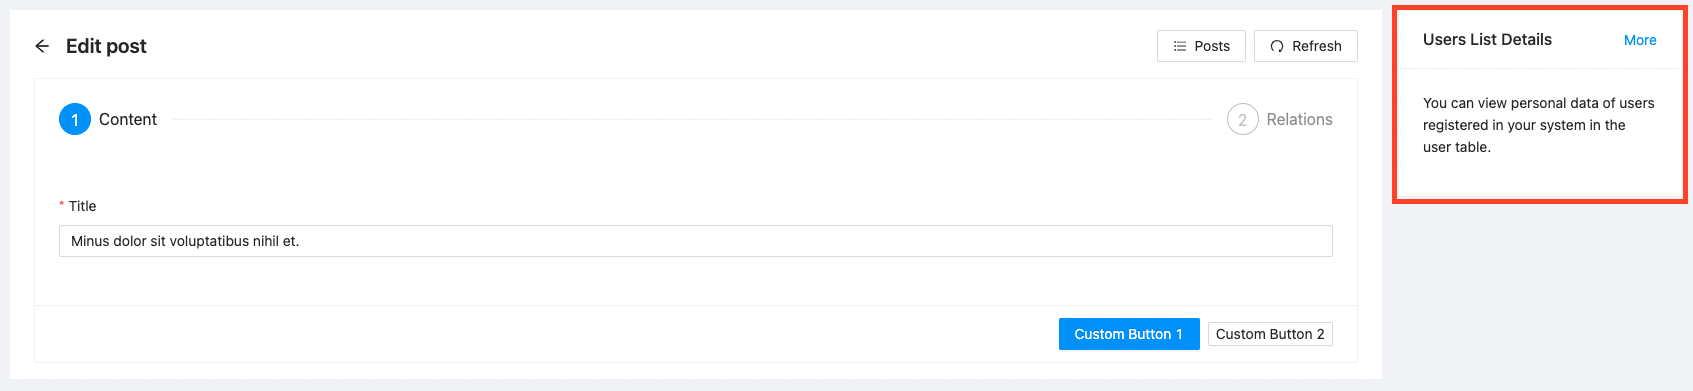
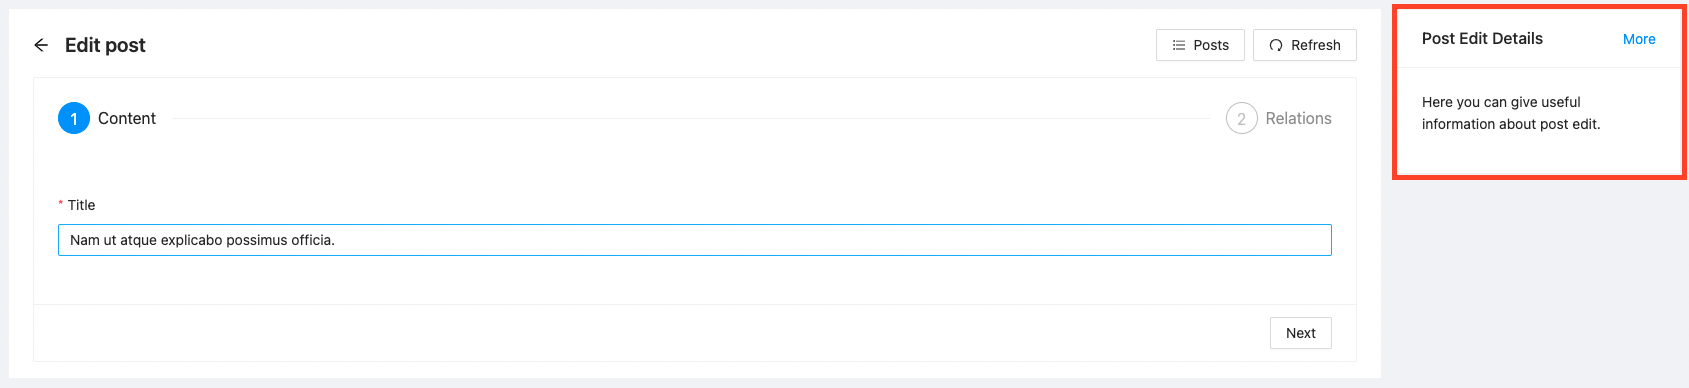
update docs

diff --git a/documentation/docs/guides-and-concepts/basic-views/edit.md b/documentation/docs/guides-and-concepts/basic-views/edit.md
@@ -58,7 +58,7 @@ export const Edit: React.FC = () => {
 
 ### `title`
 
-It allows adding title inside the `<Edit>` component. if you don't pass title props it uses singular resource name by default.
+It allows adding title inside the `<Edit>` component. if you don't pass title props it uses singular resource name by default. For example, for the "posts" resource, it will look like "Edit post".
 
 ```tsx
 import { Edit } from "@pankod/refine";
@@ -77,11 +77,8 @@ import { Edit, Card } from "@pankod/refine";
 
 const Aside: React.FC = () => {
     return (
-        <Card title="Users Edit Details" extra={<a href="#">More</a>}>
-            <p>
-                You can view personal data of users registered in your system in
-                the user table.
-            </p>
+        <Card title="Post Edit Details" extra={<a href="#">More</a>}>
+            <p>Here you can give useful information about post edit.</p>
         </Card>
     );
 };
@@ -99,9 +96,7 @@ export const Edit: React.FC = () => {
 
 ### `actionButtons`
 
-`<Edit>` uses Ant Design `<Card>` components. The `action` prop of `<Card>` component shows `<SaveButton>` and `<DeleteButton>` depending on your usage. If you want to use other things instead of these buttons, you can use `actionButton` property like the below code.
-
-[Refer to `<Card>` documentation for detailed usage. &#8594](https://ant.design/components/card)
+`<Edit>` uses Ant Design [`<Card>`](https://ant.design/components/card) component. The `action` prop of `<Card>` component shows `<SaveButton>` and `<DeleteButton>` depending on your resource definition on `<Resource>` components. If you want to use other things instead of these buttons, you can use `actionButton` property like the below code.
 
 ```tsx
 import { Edit } from "@pankod/refine";
@@ -130,9 +125,7 @@ export const Edit: React.FC = () => {
 
 ### `pageHeaderProps`
 
-`<Edit>` uses Ant Design `<PageHeader>` components. so you can customize with the props of `pageHeaderProps`. By default, the `extra` prop of `<PageHeader>` component shows `<RefreshButton>` and `<ListButton>` depending on your usage.
-
-[Refer to `<PageHeader>` documentation for detailed usage. &#8594](https://ant.design/components/page-header/#API)
+`<Edit>` uses Ant Design [`<PageHeader>`](https://ant.design/components/page-header/#API) components. so you can customize with the props of `pageHeaderProps`. By default, the `extra` prop of `<PageHeader>` component shows `<RefreshButton>` and `<ListButton>` depending on your resource definition on `<Resource>` component.
 
 ```tsx
 import { Edit } from "@pankod/refine";
@@ -159,7 +152,7 @@ export const Edit: React.FC = () => {
 
 ### `recordItemId`
 
-`<Edit>` component reads the `id` information from the route by default. `recordIdItem` is used when it cannot read the `id` information (when used on a special page, inside a modal or drawer).
+`<Edit>` component reads the `id` information from the route by default. `recordIdItem` is used when it cannot reading from the url (when used on a custom page, modal or drawer).
 
 ```tsx
 import { Edit, Modal, useModalForm } from "@pankod/refine";
@@ -238,15 +231,17 @@ export const App: React.FC = () => {
 
 ### Properties
 
-| Property          | Description                                 | Type                                                              | Default                                                            |
-| ----------------- | ------------------------------------------- | ----------------------------------------------------------------- | ------------------------------------------------------------------ |
-| canDelete         | Adds delete button                          | `boolean`                                                         | If `<Resource>` is passed a `canDelete` props, `true` else `false` |
-| deleteButtonProps | Adds props for delete button                | [`DeleteButtonProps`](interfaces.md#delete-button-props)          | `<DeleteButton />`                                                 |
-| saveButtonProps   | Adds props for create button                | `{ disabled: boolean; onClick: () => void; loading: boolean; }`   | `<SaveButton />`                                                   |
-| title             | Adds title                                  | `string`                                                          | Singular of `resource.name`                                        |
-| aside             | Adds component to right side                | `React.FC`                                                        | `undefined`                                                        |
-| actionButtons     | Passes props for `<PageHeader>`             | `React.ReactNode`                                                 | `<SaveButton />` and depending on your usage `<DeleteButton />`    |
-| pageHeaderProps   | Passes props for `<PageHeader>`             | [PageHeaderProps](https://ant.design/components/page-header/#API) | { ghost: false, [title](#title), extra: `<CreateButton />` }       |
-| recordItemId      | Record id for `<RefreshButton />`           | `string`                                                          |                                                                    |
-| mutationMode      | [Determines when mutations are executed](#) | ` "pessimistic` \| `"optimistic` \| `"undoable"`                  | `"pessimistic"`\*                                                  |
-| resource          | [`Resource`](#) for API data interactions   | `string`                                                          | Resource name that it reads from the url.                          |
+| Property          | Description                                 | Type                                                              | Default                                                                            |
+| ----------------- | ------------------------------------------- | ----------------------------------------------------------------- | ---------------------------------------------------------------------------------- |
+| canDelete         | Adds delete button                          | `boolean`                                                         | If `<Resource>` is passed a `canDelete` props, `true` else `false`                 |
+| deleteButtonProps | Adds props for delete button                | [`DeleteButtonProps`](interfaces.md#delete-button-props)          | `<DeleteButton>`                                                                   |
+| saveButtonProps   | Adds props for create button                | `{ disabled: boolean; onClick: () => void; loading: boolean; }`   | `<SaveButton>`                                                                     |
+| title             | Adds title                                  | `string`                                                          | `"Edit"` prefix and singular of `resource.name`                                    |
+| aside             | Adds component to right side                | `React.FC`                                                        | `undefined`                                                                        |
+| actionButtons     | Passes props for `<PageHeader>`             | `React.ReactNode`                                                 | `<SaveButton>` and depending on your `<Resource>` configuration (`canDelete` prop) |
+| pageHeaderProps   | Passes props for `<PageHeader>`             | [PageHeaderProps](https://ant.design/components/page-header/#API) | { ghost: false, [title](#title), extra: `<ListButton>` and `<RefreshButton>` }        |
+| recordItemId      | Record id for `<RefreshButton>`           | `string`                                                          |                                                                                    |
+| mutationMode      | [Determines when mutations are executed](#) | ` "pessimistic` \| `"optimistic` \| `"undoable"`                  | `"pessimistic"`\*                                                                  |
+| resource          | [`Resource`](#) for API data interactions   | `string`                                                          | Resource name that it reads from the url.                                          |
+
+> `*`: These props have default values in `AdminContext` and can also be set on **<[Admin](#)>** component.
